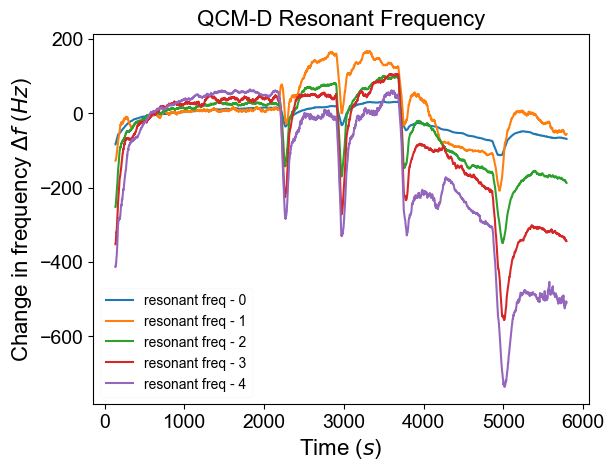
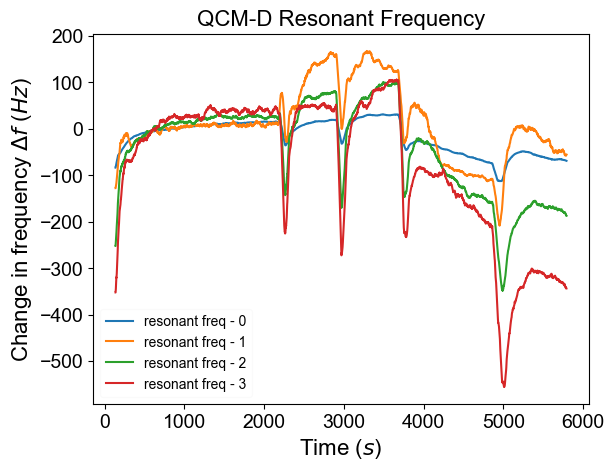
clean plt - only plots channels selected (not all)

diff --git a/tajin_ahmed-fibronectin/fn_main.py b/tajin_ahmed-fibronectin/fn_main.py
@@ -70,13 +70,15 @@ if 'Frequency_0' in df.columns:
     'Frequency_4':freqs[4], 'Dissipation_4':disps[4]}, inplace=True)
     df.to_csv("raw_data/08102022_n=2_Fn at 500 ug per ml and full SF on func gold at 37C.csv", index=False)
 
-# FUNC TO GRAB WHICH THINGS TO PLOT INTO LIST FOR EACH OPTIN
+# function fills list of channels selected to be clean plot from gui
 def get_channels(scrub_level):
     freq_list = []
     disp_list = []
         
     for channel in gui.which_plot[scrub_level].items():
+        # dict entry for that channel is true then append to list
         if channel[1] == True:
+            # check if channel looking at is a frequency or dissipation and append approppriately
             if channel[0].__contains__('freq'):
                 freq_list.append(channel[0])
             elif channel[0].__contains__('dis'):
@@ -88,10 +90,31 @@ def get_channels(scrub_level):
 '''Cleaning Data and plotting clean data'''
 if gui.will_plot_clean_data:
     clean_freqs, clean_disps = get_channels('clean')
-    
-    for i in range(int(gui.clean_num_channels_tested/2)):
+    clean_iters = 0
+    freq_plot_cap = len(clean_freqs)
+    disp_plot_cap = len(clean_disps)
+    diff = len(clean_freqs) - len(clean_disps)
+    # if different num of freq and raw channels, must do equal amount for plotting,
+    # but can just not plot the results later; set plot cap for the lesser
+    # diff pos -> more freq channels than disp
+    if diff > 0:
+        clean_iters = len(clean_freqs)
+        disp_plot_cap = len(clean_disps)
+        for i in range(diff, clean_iters):
+            clean_disps.append(disps[i])
+    # diff neg -> more disp channels than freq
+    elif diff < 0:
+        clean_iters = len(clean_disps)
+        freq_plot_cap = len(clean_freqs)
+        for i in range(abs(diff), clean_iters):
+            clean_freqs.append(freqs[i])
+    # if length same, then iterations is length of either
+    else:
+        clean_iters = len(clean_freqs)
+        
+    for i in range(clean_iters):
         # grab data from df and grab only columns we need, then drop nan values
-        data_df = df[[abs_time_col,rel_time_col,freqs[i] ,disps[i]]]
+        data_df = df[[abs_time_col,rel_time_col,freqs[i],disps[i]]]
         data_df = data_df.dropna(axis=0, how='any', inplace=False)
 
         # find baseline time range
@@ -118,9 +141,11 @@ if gui.will_plot_clean_data:
         y_rf = data_df[freqs[i]]
         y_dis = data_df[disps[i]]
         plt.figure(1, clear=False)
-        plt.plot(x_time, y_rf, label=f"resonant freq - {i}")
+        if i < freq_plot_cap:
+            plt.plot(x_time, y_rf, label=f"resonant freq - {i}")
         plt.figure(2, clear=False)
-        plt.plot(x_time, y_dis, label=f"dissipation - {i}")
+        if i < disp_plot_cap:
+            plt.plot(x_time, y_dis, label=f"dissipation - {i}")
 
         '''plt.figure(3, clear=True)
         plt.plot(x_time, y_rf, label=f"indv resonant freq - {i}")
@@ -130,11 +155,15 @@ if gui.will_plot_clean_data:
         print(f"rf mean: {rf_base_avg}; dis mean: {dis_base_avg}\n")
 
         # cleaned df to overwrite old data
-        if i == 0:
-            cleaned_df = data_df[[abs_time_col,rel_time_col]]
-        #pd.concat([cleaned_df,data_df[freqs[i]]])
+        if gui.will_overwrite_file:
+            if i == 0:
+                cleaned_df = data_df[[abs_time_col,rel_time_col]]
+            cleaned_df = pd.concat([cleaned_df,data_df[freqs[i]]], axis=1)
+            cleaned_df = pd.concat([cleaned_df,data_df[disps[i]]], axis=1)
 
-    print(cleaned_df.head())
+   # print(cleaned_df.head())
+
+
 # Titles, lables, etc. for plots
 plt.figure(1, clear=False)
 plt.legend(loc='best', fontsize=14, prop={'family': 'Arial'}, framealpha=0.1)
